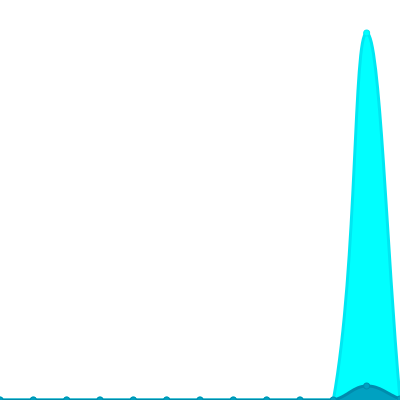
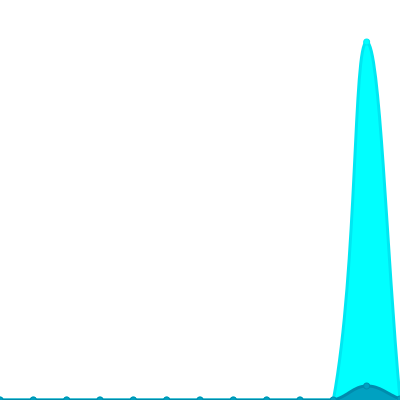
Update views

diff --git a/README.md b/README.md
@@ -26,18 +26,18 @@ The project created and maintained by [gayanvoice](https://github.com/gayanvoice
 			</a>
 		</td>
 		<td>
-			2022/10/31 1:12 AM UTC
+			2022/11/1 12:00 AM UTC
 		</td>
 		<td>
-			16
+			17
 		</td>
 		<td>
-			<img alt="Response time graph" src="https://github.com/jakala/profile-views-counter/raw/master/graph/18893494/small/year.png" height="20"> 456
+			<img alt="Response time graph" src="https://github.com/jakala/profile-views-counter/raw/master/graph/18893494/small/year.png" height="20"> 457
 		</td>
 	</tr>
 </table>
 
-<small><i>Last updated on 2022/11/2 6:15 PM UTC</i></small>
+<small><i>Last updated on 2022/11/3 1:03 AM UTC</i></small>
 
 ## ✂Copy and 📋 Paste
 ### Total Views Badge

diff --git a/readme/18893494/year.md b/readme/18893494/year.md
@@ -37,7 +37,7 @@
 			<code>14</code>
 		</td>
 		<td>
-			<code>367</code>
+			<code>358</code>
 		</td>
 	</tr>
 	<tr>
@@ -164,7 +164,7 @@
 </table>
 
 </details>
-<small><i>Last updated on 2022/11/2 6:15 PM UTC</i></small>
+<small><i>Last updated on 2022/11/3 1:02 AM UTC</i></small>
 
 ## ✂Copy and 📋 Paste
 ### SVG Badge
